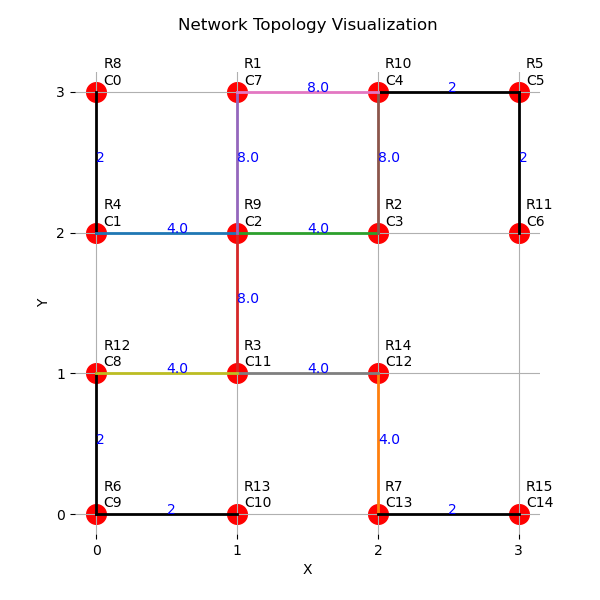
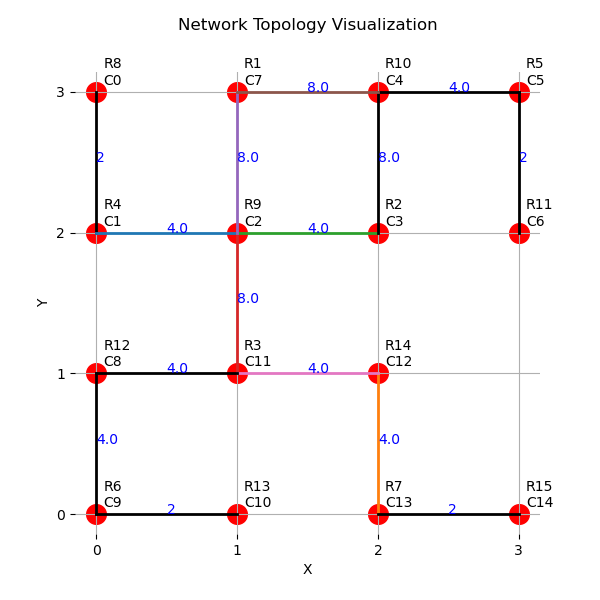
step 4的頻寬新

diff --git a/algorithms/helper_interconnect.py b/algorithms/helper_interconnect.py
@@ -470,22 +470,19 @@ def solve_multiple_solution(
         router_to_node: Dict[int, "Node"],
         net: "Network",
         bandwidth: float = 10.0,
-        seen_undirected: Optional[Set[Tuple[int, int]]] = None,  # 修正型別提示
+        seen_undirected: Optional[Set[Tuple[int, int]]] = None,
 ) -> List[Tuple[int, int]]:
     """
-    若有多組解，則選擇XY(default)來連接
+    若有多組解，則選擇 XY(default) 來連接。
+    同時處理頻寬更新 (取 Max) 與 seen 集合維護。
     """
     added_all: List[Tuple[int, int]] = []
 
     if seen_undirected is None:
         seen_undirected = set()
 
-    # --- 修正後的輔助函式 (針對 Tuple) ---
+    # --- 1. 輔助函式：路徑連通檢查 ---
     def is_edge_in_seen(u, v, seen_set):
-        """
-        直接檢查 tuple 是否存在於 set 中。
-        因為是 Tuple，必須手動檢查兩個方向來模擬無向邊。
-        """
         return (u, v) in seen_set or (v, u) in seen_set
 
     def is_path_connected(edges_list, seen_set):
@@ -496,34 +493,67 @@ def solve_multiple_solution(
                 return False
         return True
 
-    # ==========================================
-    # Step 1: 檢查既有連通性
-    # ==========================================
-    print("--- Step 1: Checking Existing Connectivity ---")
+    # --- 2. 輔助函式：統一的頻寬更新邏輯 ---
+    def update_link_bandwidth(u_id: int, v_id: int, req_bw: float):
+        """
+        核心邏輯：
+        1. 轉換 ID 為 Node 物件
+        2. 遍歷 net.links 檢查是否存在
+        3. 若存在，取 max(舊頻寬, 新頻寬)
+        4. 呼叫 net.add_link (該方法會處理 '更新' 或 '新增')
+        """
+        node_u = router_to_node[u_id]
+        node_v = router_to_node[v_id]
 
+        current_bw = 0.0
+
+        # 遍歷 List 尋找既有頻寬 (因為 Network 沒有 dict 索引)
+        for link in net.links:
+            # 檢查雙向
+            is_forward = (link.node_u == node_u and link.node_v == node_v)
+            is_backward = (link.node_u == node_v and link.node_v == node_u)
+            if is_forward or is_backward:
+                current_bw = link.bandwidth
+                break
+
+        # 取最大值：確保共享路徑的頻寬足夠
+        final_bw = max(current_bw, req_bw)
+
+        # 寫入 Network
+        net.add_link(node_u, node_v, final_bw)
+
+    # ==========================================
+    # Step 1: 檢查既有連通性 (並更新頻寬)
+    # ==========================================
     for (_p, _c), info in routes_at_level.items():
         if info.get("status") == 0:
             xy_edges = info.get('XY_edges', [])
             yx_edges = info.get('YX_edges', [])
 
-            # 優先檢查 XY
+            # --- 優先檢查 XY ---
             if xy_edges and is_path_connected(xy_edges, seen_undirected):
-                print(f"Route {_p}->{_c} is already connected via XY.")
+                # print(f"Route {_p}->{_c} is already connected via XY.")
                 info['status'] = 1
+
+                # [修正] 不使用 net.has_edge，改用 helper 更新頻寬
+                for u, v in xy_edges:
+                    update_link_bandwidth(u, v, bandwidth)
                 continue
 
-                # 其次檢查 YX
+            # --- 其次檢查 YX ---
             if yx_edges and is_path_connected(yx_edges, seen_undirected):
-                print(f"Route {_p}->{_c} is already connected via YX.")
+                # print(f"Route {_p}->{_c} is already connected via YX.")
                 info['status'] = 1
+
+                # [修正] 不使用 net.has_edge，改用 helper 更新頻寬
+                for u, v in yx_edges:
+                    update_link_bandwidth(u, v, bandwidth)
                 continue
 
-            print(f"Route {_p}->{_c} remains Unconnected.")
-
     # ==========================================
-    # Step 2: 執行 XY Routing 並補齊缺少的邊
+    # Step 2: 執行 Default (XY) Routing 並補齊缺少的邊
     # ==========================================
-    print("--- Step 2: Using default (XY) to connect ---")
+    # print("--- Step 2: Using default (XY) to connect ---")
 
     for (_p, _c), info in routes_at_level.items():
         if info.get("status") == 0:
@@ -532,37 +562,28 @@ def solve_multiple_solution(
             if not xy_edges:
                 continue
 
-            print(f"Routing {_p} -> {_c} via XY...")
+            # print(f"Routing {_p} -> {_c} via XY...")
 
             for u, v in xy_edges:
+                # 判斷是否為「全新」的邊 (僅用於記錄 added_all)
+                is_new_edge = not is_edge_in_seen(u, v, seen_undirected)
 
-                # 1. 檢查是否已存在 (使用 Helper)
-                if is_edge_in_seen(u, v, seen_undirected):
-                    continue
+                # [修正] 核心動作：無論是否 seen，都必須呼叫此函式來確保/更新頻寬
+                # 因為可能這條邊之前被加過，但頻寬只有 5.0，現在需要 10.0
+                update_link_bandwidth(u, v, bandwidth)
 
-                # 2. 不存在則建立 (修正：直接建立 Tuple，不要呼叫 Edge())
-                try:
-                    new_edge = (u, v)  # <--- 這裡直接用 Tuple
-                    added = add_edges(
-                        net,
-                        [new_edge],
-                        router_to_node,
-                        bandwidth=bandwidth,
-                        seen=seen_undirected,
-                        undirected=True,
-                    )
-                    # 加入 seen (這裡我們統一存入 (u, v)，helper 會幫忙查反向)
-                    seen_undirected.add(new_edge)
-                    added_all.append(new_edge)
+                # 更新 seen 集合 (雙向)
+                seen_undirected.add((u, v))
+                seen_undirected.add((v, u))
 
-                    print(f"  [+] Created missing link: {u} <-> {v}")
-
-                except Exception as e:
-                    print(f"  [!] Error creating edge {u}-{v}: {e}")
+                if is_new_edge:
+                    added_all.append((u, v))
+                    # print(f"  [+] Created/Updated link: {u} <-> {v}")
 
             info['status'] = 1
 
     return added_all
+
 def print_result(placed, routes, edge_routes, node_layer_func):
     """
     列印 Placement, Router Path 以及 Router Edge 的結果。
@@ -637,7 +658,7 @@ def solve_interconnect(num, placed):
     connected: Set[Edge] = set()
 
     # step 1: 加入最後一層
-    print("step 1: 加入最後一層")
+
     last_edges = add_last_level_routes_to_network(
         network=network,
         routes=routes,
@@ -655,7 +676,7 @@ def solve_interconnect(num, placed):
             edge_routes[last_level][pair]["status"] = STATUS_CONNECTED
 
     # step 2: 解決每一層中的唯一路徑以及交集為0的唯一路徑
-    print("step 2: 解決每一層中的唯一路徑以及交集為0的唯一路徑")
+
     for i, level in enumerate(range(len(routes) - 1, 0, -1)):
         least_congestion_edges = least_congestion_per_level(
             routes=routes,
@@ -691,7 +712,6 @@ def solve_interconnect(num, placed):
                 edge_routes[last_level][pair]["status"] = STATUS_CONNECTED
 
     # step 4: 解決多組解的情況
-    print("\nstep 4 message")
     for i, level in enumerate(range(len(routes) - 1, 0, -1)):
         solve_multiple_solution(
             net=network,
@@ -703,80 +723,7 @@ def solve_interconnect(num, placed):
 
     return routes, edge_routes, node_layer, network
 
-def test_bandwidth(num, placed):
-    # router-core 配對
-    router_map = assign_router(num)
-    router_to_core = {rid: core for rid, core in router_map.items()}
-    router_to_node = build_router_to_node(placed)
 
-    # 寫回 placed
-    for rid, core in router_to_core.items():
-        if rid in placed:
-            placed[rid].core_id = core
-
-    # build routes（寫回後再建）
-    routes = build_routes_dict_by_level(num - 1, placed)
-    print(f"The number of core(node): {num}\nThe number of level in tree: {len(routes)}")
-
-    # 建立路徑轉為無向邊的dict
-    edge_routes = build_edge_dict_by_level(routes)
-
-    # 建 network
-    k = int(math.log2(num))
-    W = 2 ** ((k + 1) // 2)
-    H = 2 ** (k // 2)
-    network = Network(W, H)
-
-    for node in placed.values():
-        network.add_existing_node(node)
-
-    seen_undirected = set()
-    connected: Set[Edge] = set()
-    # step 1: 加入最後一層
-    print("step 1: 加入最後一層")
-
-    last_edges = add_last_level_routes_to_network(
-        network=network,
-        routes=routes,
-        placed=placed,
-        bandwidth=2,
-        use="XY",
-        undirected=True,
-    )
-    connected.update(last_edges)
-    seen_undirected.update(last_edges)
-
-    last_level = max(routes.keys())
-    for pair, info in routes[last_level].items():
-        if info["status"] == STATUS_CONNECTED:
-            edge_routes[last_level][pair]["status"] = STATUS_CONNECTED
-
-    print(f"step 1加入的邊(共有{len(seen_undirected)}個): {seen_undirected}")
-
-    # step 2: 解決每一層中的唯一路徑以及交集為0的唯一路徑
-    print("step 2: 解決每一層中的唯一路徑以及交集為0的唯一路徑")
-
-    for i, level in enumerate(range(len(routes) - 1, 0, -1)):
-        least_congestion_edges = least_congestion_per_level(
-            routes=routes,
-            level=level,
-            net=network,
-            router_to_node=router_to_node,
-            bandwidth=float(4*(i+1)),
-            seen_undirected=seen_undirected
-        )
-        connected.update(least_congestion_edges)
-        seen_undirected.update(least_congestion_edges)
-
-        for pair, info in routes[level].items():
-            # 如果 routes 裡的狀態變成了 CONNECTED (1)
-            if info.get("status") == STATUS_CONNECTED:
-                # 就更新 edge_routes 對應的項目
-                edge_routes[level][pair]["status"] = STATUS_CONNECTED
-
-    print(f"step 2加入的邊(共有{len(seen_undirected)}個): {seen_undirected}")
-
-    return network
 
 def main():
 
@@ -784,9 +731,7 @@ def main():
     placed, grid = solve(num)
     routes, edge_routes, node_layer, network = solve_interconnect(num, placed)
     #print_result(placed, routes, edge_routes, node_layer)
-    #visualize_network(network)
 
-    # network = test_bandwidth(num, placed)
     visualize_network(network)
 
 if __name__ == "__main__":
